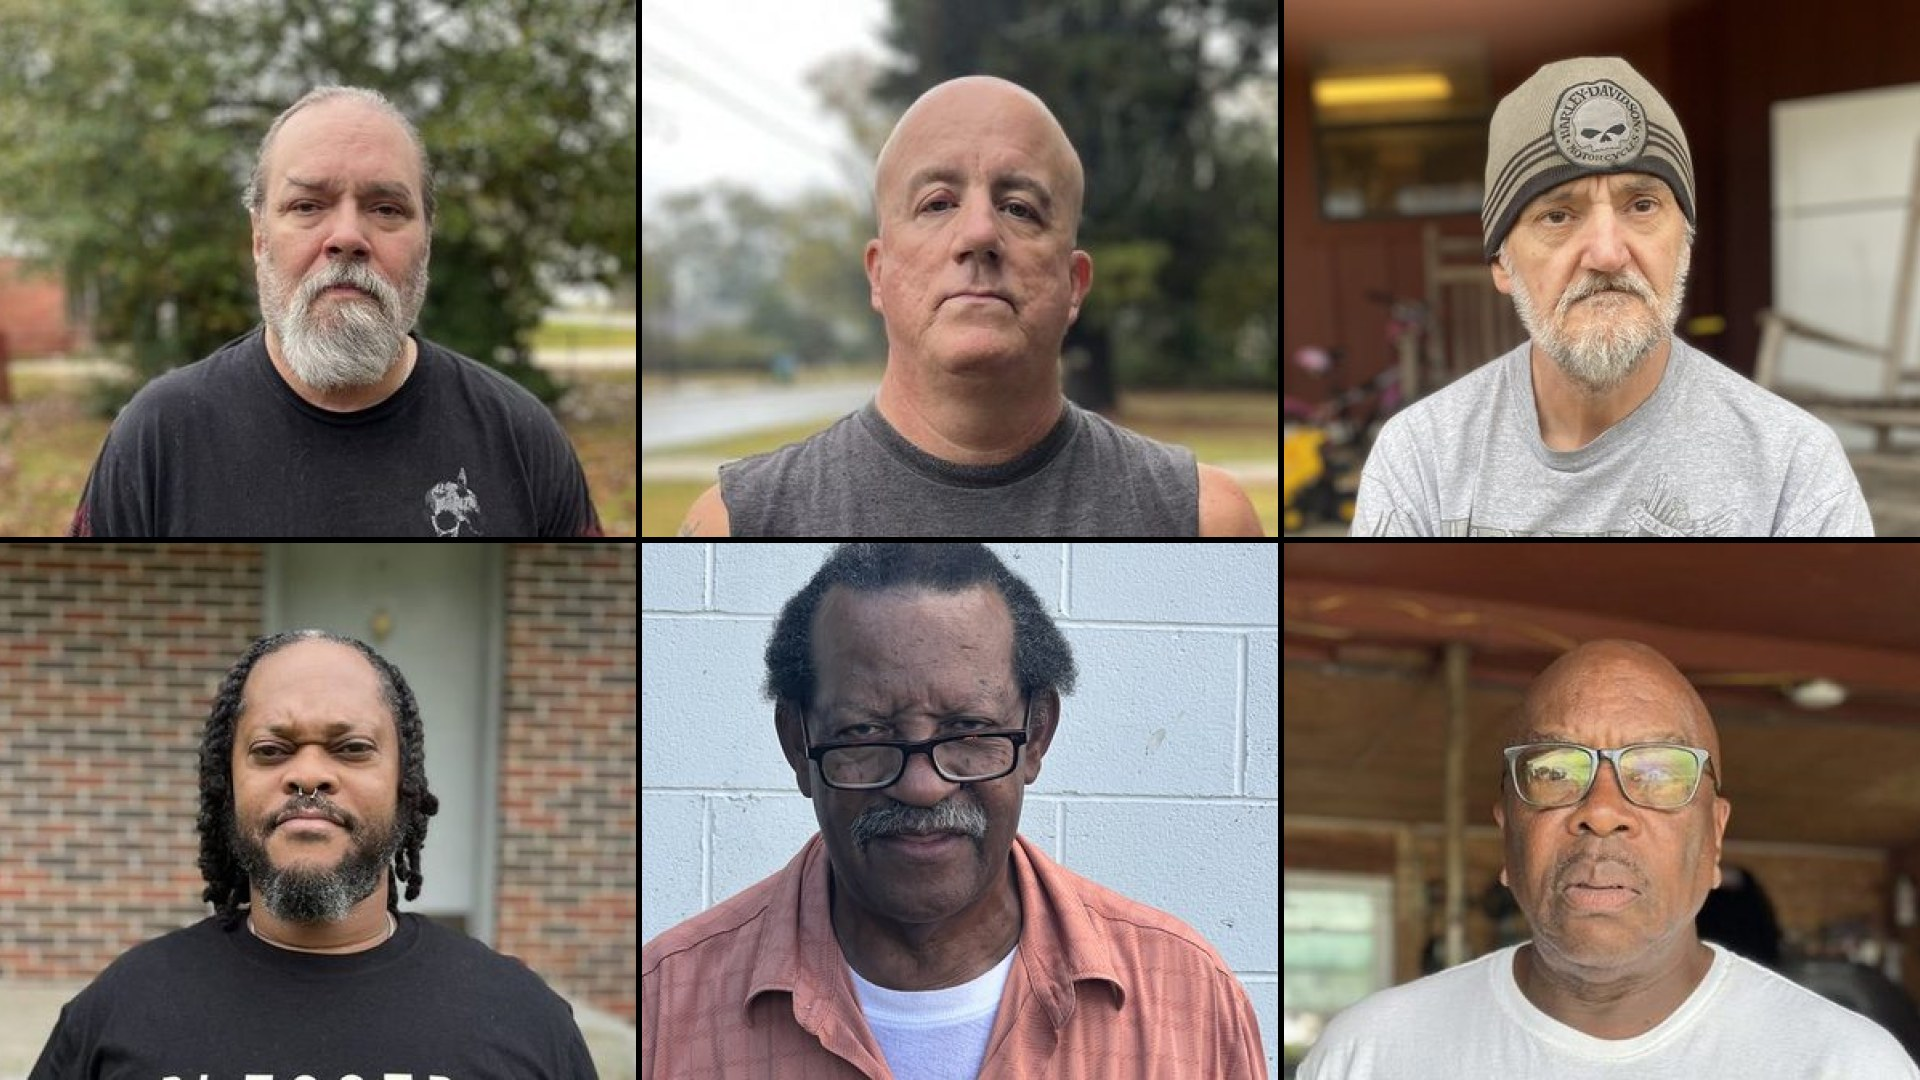
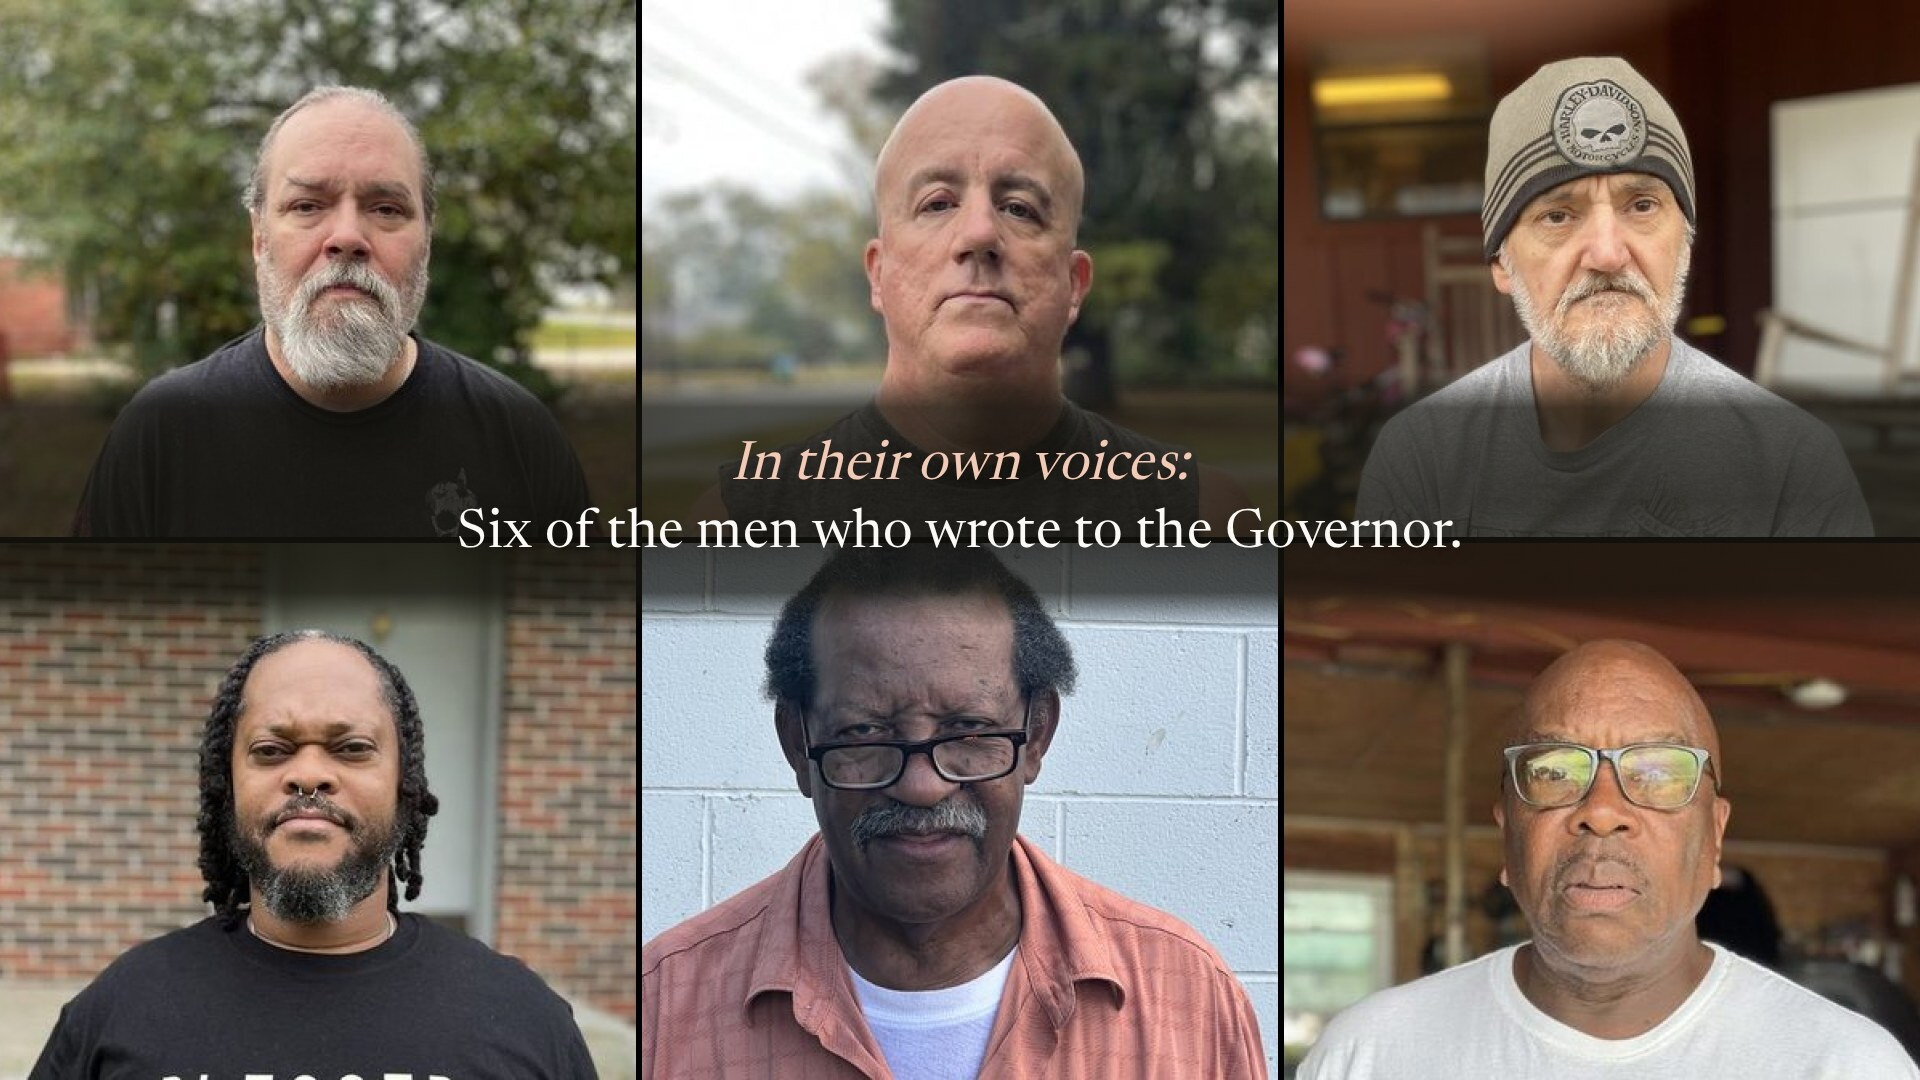
The officers' film carries its own title, and the transcript goes
- The eyebrow, heading and introduction above the film are gone. The line
  is burned into the poster instead: "In their own voices: Six of the men
  who wrote to the Governor." It sits in the band between the two rows of
  faces, which was measured rather than eyeballed -- the lowest face in the
  top row ends at 360px and the highest in the bottom row starts at 638px,
  so the type and its scrim occupy 372 to 628 and cover nobody.
- The transcript is gone. The captions track stays, which was the reason
  for dropping it.
- The only heading left in the markup is a hidden one, so the page still
  has a proper outline for screen readers and for search, and the video
  carries an aria-label saying what it is and that captions exist.

Also: "actions that will spotlight it" -> "actions that we'll spotlight",
on the home page and Take action. The "it" had to go with it, or the
sentence carried two objects.

Changed region(s): [[0.0, 0.3361, 1.0, 0.5806]]

diff --git a/officers.html b/officers.html
@@ -198,47 +198,15 @@ dialog::backdrop{background:rgba(22,21,15,.62)}
 </div></section>
 
 <section class="cofilm">
-  <div class="wrap">
-    <div class="cofilm-head">
-      <p class="eyebrow">In their own voices</p>
-      <h2>Six of the officers, on camera</h2>
-      <p class="lede">Six of the men who wrote to the Governor say the same things aloud
-      that they wrote on paper: what they saw of Mark at Holman, and why they are asking
-      for his life.</p>
-    </div>
-  </div>
+  <h2 class="vh">Six of the officers, on camera</h2>
   <figure class="vidfig cofilm-fig">
-    <video controls playsinline preload="none" poster="img/video/co-film-poster.jpg">
+    <video controls playsinline preload="none" poster="img/video/co-film-poster.jpg"
+      aria-label="Six of the officers who wrote to the Governor, on camera. Captions available.">
       <source src="img/video/co-film.mp4" type="video/mp4">
       <track kind="captions" src="img/video/co-film.vtt" srclang="en" label="English" default>
-      <p>Your browser cannot play this recording. The transcript is below.</p>
+      <p>Your browser cannot play this recording.</p>
     </video>
   </figure>
-  <div class="wrap"><div class="cofilm-tx">
-    <details class="vtx">
-        <summary>Read the transcript</summary>
-        <div class="tx">
-            <p><b>William James.</b> Dear Governor Ivey.</p>
-            <p><b>Michael S. Everette.</b> My name is Michael Everette. I&rsquo;m a retired lieutenant from the Alabama Department of Corrections, Holman Prison.</p>
-            <p><b>Keith Watson.</b> My name is Keith Watson. I worked for Alabama Department of Corrections for 21 years.</p>
-            <p><b>Ernest Stanton.</b> My name is Ernest Stanton, retired correctional officer. For around 20 years or so. I worked on Death Row most of my time.</p>
-            <p><b>Freddie Howard.</b> My name is Freddie Howard. I&rsquo;m a retired correctional officer. I&rsquo;m a community person now, I teach Sunday School, I&rsquo;m a person that cares about God.</p>
-            <p><b>William James.</b> My name is William James, I&rsquo;m conservative, I support law enforcement, and I support law and order. Mark is a man who deserves to be saved.</p>
-            <p><b>Keith Watson.</b> I think Mark Jenkins is a good person and I do not think Mark should be executed.</p>
-            <p><b>Ernest Stanton.</b> Mark brings an atmosphere of peace to a very, very violent world.</p>
-            <p><b>James Smith Sr.</b> I consider him as a model inmate, and I believe if he was given a second chance, he&rsquo;ll be a model person.</p>
-            <p><b>Ernest Stanton.</b> When things are going crazy and haywire, Mark will be a voice of reason in any turbulent situation.</p>
-            <p><b>William James.</b> I was the first officer to hire Mark as a hall runner. We had to have a lot of trust in hall runners because they had more time out of their cells than the other inmates. Mark earned my trust. I do not take executions lightly.</p>
-            <p><b>Michael S. Everette.</b> And I am asking Governor Ivey to grant clemency for inmate Mark Jenkins on death row.</p>
-            <p><b>James Smith Sr.</b> So I can only say, I hope that he gets the best come out for him.</p>
-            <p><b>William James.</b> Governor, I voted for you and have supported your tenure. You&rsquo;ve said you care about the voices of correctional officers and that you have our back. I&rsquo;m asking you to look at these letters. The officers that I work with at Holman, the officers who have signed these letters of support, they know Mark. They know and I know Mark deserves to have his sentence commuted.</p>
-            <p><b>Freddie Howard.</b> God gives us a chance every day. You got up this morning. I got up this morning. He could have took us last night. He could have took us on our way here. But he gave you another chance. That says to you, there&rsquo;s more work for you to do. That God is awesome and is in control. And he&rsquo;s a God of love. And love covers a multitude of sins.</p>
-            <p class="sd">On screen: Over 60 correctional officers from Holman Prison
-            call upon Governor Ivey to show mercy and commute Mark Jenkins&rsquo;s sentence
-            to life without parole.</p>
-        </div>
-      </details>
-  </div></div>
 </section>
 
 <div class="statband"><div class="wrap">

diff --git a/style.css b/style.css
@@ -1123,17 +1123,11 @@ figure.filmfig.big video{width:100%;height:auto;display:block}
 @media(max-width:760px){.inset .docgrid.rows{grid-template-columns:1fr}}
 
 /* ---- the officers on camera, above the archive ------------------------- */
-/* The officers’ film. The heading sits in the page’s own measure, on the
-   same left edge as everything else; the film itself sits outside the wrap
-   so it runs the full width of the screen. */
+/* The officers’ film, full width. Its title is burned into the poster, so
+   the only heading in the markup is a hidden one, for screen readers and
+   for the document outline. */
 .cofilm{padding:10px 0 4px}
-.cofilm-head{max-width:64ch;margin-bottom:24px}
-.cofilm-head h2{margin:2px 0 12px}
-.cofilm-head .lede{margin:0;max-width:60ch}
 .cofilm-fig{margin:0;width:100%}
-/* the transcript returns to the page’s measure: a line of text the width
-   of the screen cannot be read. */
-.cofilm-tx{max-width:72ch;margin-top:20px}
 .cofilm-fig video{width:100%;height:auto;display:block;background:var(--ink)}
 @media(max-width:900px){.cofilm{padding:4px 0 0}}
 

diff --git a/index.html b/index.html
@@ -191,7 +191,7 @@
       <p>Write a postcard to Governor Ivey to let her know you support clemency for Mark.</p>
       <a class="textlink" href="postcards.html">How it works</a></article>
     <article class="card"><span class="n">Three</span><h3>Get email updates</h3>
-      <p>Sign up for updates about Mark’s case, including events and actions that will spotlight it in the months ahead.</p>
+      <p>Sign up for updates about Mark’s case, including events and actions that we&rsquo;ll spotlight in the months ahead.</p>
       <form class="sub" action="https://docs.google.com/forms/d/e/1FAIpQLSe4hVwL6lYlx7WSRYWtWWX0A0OJPejQLzO4cdljNeP2M6f-tg/formResponse" method="post" target="mfm-sink">
         <label class="vh" for="su-h">Your email address</label>
         <div class="sub-row">

diff --git a/help.html b/help.html
@@ -76,7 +76,7 @@
       <span class="n">Three</span>
       <h3>Get email updates</h3>
       <p>Sign up for updates about Mark’s case, including events and actions that
-      will spotlight it in the months ahead.</p>
+      we&rsquo;ll spotlight in the months ahead.</p>
       <form class="sub" action="https://docs.google.com/forms/d/e/1FAIpQLSe4hVwL6lYlx7WSRYWtWWX0A0OJPejQLzO4cdljNeP2M6f-tg/formResponse" method="post" target="mfm-sink">
         <label class="vh" for="su-t">Your email address</label>
         <div class="sub-row">
